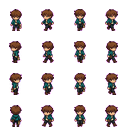
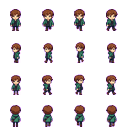
fix sprite walking

diff --git a/src/game/ui/StarterSelect.ts b/src/game/ui/StarterSelect.ts
@@ -1,10 +1,13 @@
 /**
  * StarterSelect — the choose-your-companion screen shown in the intro cutscene.
- * Lists the founding trio with a short blurb each; up/down + Confirm picks one
- * (not cancellable — you must choose). Promise-based: resolves with the chosen
- * species id. Built from the shared kit so it matches every other screen. Real
- * portraits will drop in later (creature art isn't packed to public/ yet); for now
- * each option shows a type-tinted swatch.
+ * Lists the founding trio as compact rows (icon + name + type), with a detail
+ * pane below that shows only the *selected* starter's blurb and updates as the
+ * cursor moves — so long descriptions never overlap the list and the choice stays
+ * in view, using the small screen well. up/down + Confirm picks one (not
+ * cancellable — you must choose). Promise-based: resolves with the chosen species
+ * id. Built from the shared kit so it matches every other screen. Real portraits
+ * drop in later (creature art isn't packed to public/ yet); for now each option
+ * shows a type-tinted swatch.
  */
 import Phaser from 'phaser';
 import { GAME_WIDTH } from '@game/config';
@@ -24,13 +27,22 @@ const TYPE_TINT: Partial<Record<KinType, string>> = {
   Verdant: '#7bdc6b',
 };
 
-const ROW_H = 26;
 const PAD = theme.space.lg;
+/** One compact list row: just enough for the 16px icon + a name line. */
+const ROW_H = 20;
+/** Vertical room reserved for the header line. */
+const HEADER_H = 12;
+/** Detail pane: lines × line-height, sized for the longest blurb so nothing clips. */
+const DETAIL_LINE_H = 9;
+const DETAIL_LINES = 4;
 
 export class StarterSelect {
   private readonly panel: Panel;
   private readonly cursor: Cursor;
   private readonly swatches: Phaser.GameObjects.Rectangle[] = [];
+  private readonly names: Phaser.GameObjects.Text[] = [];
+  private readonly detail: Phaser.GameObjects.Text;
+  private readonly listTop: number;
   private index = 0;
 
   constructor(
@@ -38,7 +50,9 @@ export class StarterSelect {
     private readonly sfx?: Sfx,
   ) {
     const width = GAME_WIDTH - 24;
-    const height = PAD * 2 + 12 + STARTERS.length * ROW_H;
+    this.listTop = PAD + HEADER_H;
+    const detailTop = this.listTop + STARTERS.length * ROW_H + PAD;
+    const height = detailTop + DETAIL_LINES * DETAIL_LINE_H + PAD;
     const x = (GAME_WIDTH - width) / 2;
     const y = 12;
     this.panel = new Panel(scene, x, y, width, height).fixedToCamera().setDepth(theme.depth.panel);
@@ -47,12 +61,12 @@ export class StarterSelect {
 
     STARTERS.forEach((opt, i) => {
       const species = SPECIES_BY_ID.get(opt.species_id);
-      const rowY = PAD + 12 + i * ROW_H;
+      const rowY = this.listTop + i * ROW_H;
       const type = species?.types[0];
       const tint = (type && TYPE_TINT[type]) || theme.color.panelEdge;
 
       const swatch = scene.add
-        .rectangle(PAD + 12, rowY + 4, 16, 16, hex(tint))
+        .rectangle(PAD + 10, rowY + 2, 16, 16, hex(tint))
         .setOrigin(0, 0)
         .setStrokeStyle(1, hex(theme.color.panelShadow));
       this.panel.add(swatch);
@@ -62,7 +76,7 @@ export class StarterSelect {
       if (hasCreatureSprite(opt.species_id, 'icon')) {
         void loadCreatureSprite(scene, opt.species_id, 'icon').then((key) => {
           if (key && swatch.active) {
-            const icon = scene.add.image(PAD + 12, rowY + 4, key).setOrigin(0, 0).setDisplaySize(16, 16);
+            const icon = scene.add.image(PAD + 10, rowY + 2, key).setOrigin(0, 0).setDisplaySize(16, 16);
             this.panel.add(icon);
             this.panel.container.bringToTop(this.cursor.sprite);
             swatch.setVisible(false);
@@ -70,27 +84,43 @@ export class StarterSelect {
         });
       }
 
-      const name = `${species?.name ?? '???'}  ${species?.types.join('/') ?? ''}`;
-      this.panel.add(makeText(scene, PAD + 34, rowY, name, theme.text.base));
-      const blurb = makeText(scene, PAD + 34, rowY + 10, opt.blurb, theme.text.dim);
-      blurb.setWordWrapWidth(width - (PAD + 34) - PAD);
-      this.panel.add(blurb);
+      const label = `${species?.name ?? '???'}  ${species?.types.join('/') ?? ''}`;
+      const name = makeText(scene, PAD + 30, rowY + 5, label, theme.text.base);
+      this.panel.add(name);
+      this.names.push(name);
     });
+
+    // Detail pane: a thin separator + the selected starter's blurb, wrapped to the
+    // panel width and refreshed on every cursor move (never stacked per-row).
+    const sep = scene.add
+      .rectangle(PAD, detailTop - Math.floor(PAD / 2), width - PAD * 2, 1, hex(theme.color.panelEdge))
+      .setOrigin(0, 0)
+      .setAlpha(0.5);
+    this.panel.add(sep);
+
+    this.detail = makeText(scene, PAD, detailTop, '', theme.text.dim);
+    this.detail.setWordWrapWidth(width - PAD * 2);
+    this.panel.add(this.detail);
 
     this.cursor = new Cursor(scene).setScrollFactor0();
     this.panel.add(this.cursor.sprite);
-    this.placeCursor();
+    this.refresh();
   }
 
-  private placeCursor(): void {
-    this.cursor.moveTo(PAD + 2, PAD + 12 + this.index * ROW_H + 10);
+  /** Reflect the current selection: cursor position, highlighted name, blurb. */
+  private refresh(): void {
+    this.cursor.moveTo(PAD, this.listTop + this.index * ROW_H + ROW_H / 2);
+    this.names.forEach((name, i) =>
+      name.setColor(i === this.index ? theme.text.accent.color : theme.text.base.color),
+    );
+    this.detail.setText(STARTERS[this.index].blurb);
   }
 
   private move(dir: number): void {
     const next = (this.index + dir + STARTERS.length) % STARTERS.length;
     if (next !== this.index) {
       this.index = next;
-      this.placeCursor();
+      this.refresh();
       void this.sfx?.play(theme.cursor.moveSfx);
     }
   }

diff --git a/src/game/entities/Actor.ts b/src/game/entities/Actor.ts
@@ -161,8 +161,15 @@ export class Actor {
 
   setFacing(facing: Facing): void {
     this.facing = facing;
-    // While moving the walk animation owns the frame; only the idle pose here.
-    if (!this.moving) this.sprite.setFrame(this.frames.idle[facing]);
+    // The walk animation owns the displayed frame whenever it's running — both
+    // while a tile tween is in flight (`moving`) AND in the brief gap between
+    // consecutive held-direction steps, where `moving` has flipped false but the
+    // looping cycle is still playing. Stamping the idle frame in that gap (every
+    // `step()` begins with setFacing) flashed a "standing" frame at each tile
+    // boundary — the twitch. Only settle to idle when nothing is animating.
+    if (!this.moving && !this.sprite.anims.isPlaying) {
+      this.sprite.setFrame(this.frames.idle[facing]);
+    }
   }
 
   /** The tile directly in front of the actor. */

diff --git a/CLAUDE.md b/CLAUDE.md
@@ -343,6 +343,13 @@ keep entries one or two lines, concrete, and prune what's gone stale.
   / `Actor.showEmote()` drive layers 3/2; `pack_trainers.py` packs all three + the manifest.
   **Build an action sheet from single `human-pose` gens + `assemble_action_sheet.py`** — never
   one-shot the 8-cell grid (the model subdivides cells and repeats stances).
+- **Walk-sheet rows must be true DIFFERENT viewpoints, not one front pose ×4.** The engine maps
+  rows down/left/right/up (`HUMAN_WALK_FRAMES`); if the art draws a forward-facing face in the
+  left/right/up rows the character looks like it's "facing you" while walking sideways/up (this
+  bit `player_indi`). The `human-overworld` template in `sprite-specs.json` now spells out each
+  viewpoint (down=full face, left=left profile, right=mirror, **up=back of head in EVERY column
+  incl. walk frames, no face**). After regenerating a walk sheet, eyeball the 4×4 grid and
+  confirm the up row shows the back of the head in all 4 cells before repacking.
 - **Field tiles need a seamless pass.** Image gen bakes a 1–2px lighter rim onto tiles that
   tiles into a visible grid; after generating a uniform ground/floor/path tile, run
   `make_tileable.py <tile.png>` (clamps the outer ring to its neighbour) and eyeball a 3×3
@@ -396,6 +403,12 @@ keep entries one or two lines, concrete, and prune what's gone stale.
   `ui/PartyMenu.ts` (pause menu → KIN): list → SUMMARY (stat/move card) or MOVE (reorder;
   slot 0 is the battle lead). It returns the reordered `KinInstanceData[]`; the caller
   assigns it back and persists. Per-type swatch colours are `theme.typeColor`.
+- **Don't pack wrapped long text into a fixed per-row slot in a list.** A word-wrapped
+  blurb/description is multi-line; drawing it inside each row's `ROW_H` (it can't know how
+  tall the wrap is) overflows into the next rows and overlaps (this is how StarterSelect
+  rendered as a jumble). Use **list + detail pane**: compact one-line rows (icon + name)
+  plus ONE description Text below that shows only the *selected* item's blurb and refreshes
+  on cursor move (`StarterSelect.refresh()`). Size the detail pane for the longest entry.
 - **Audio can't autoplay before a user gesture.** Browsers start the Web Audio context
   suspended, so any `music.play()` before the player interacts is silent. The boot flow gates
   on `SplashScene` (Preload → Splash → Attract) — the animated "Andrew Ward Studios" sting
